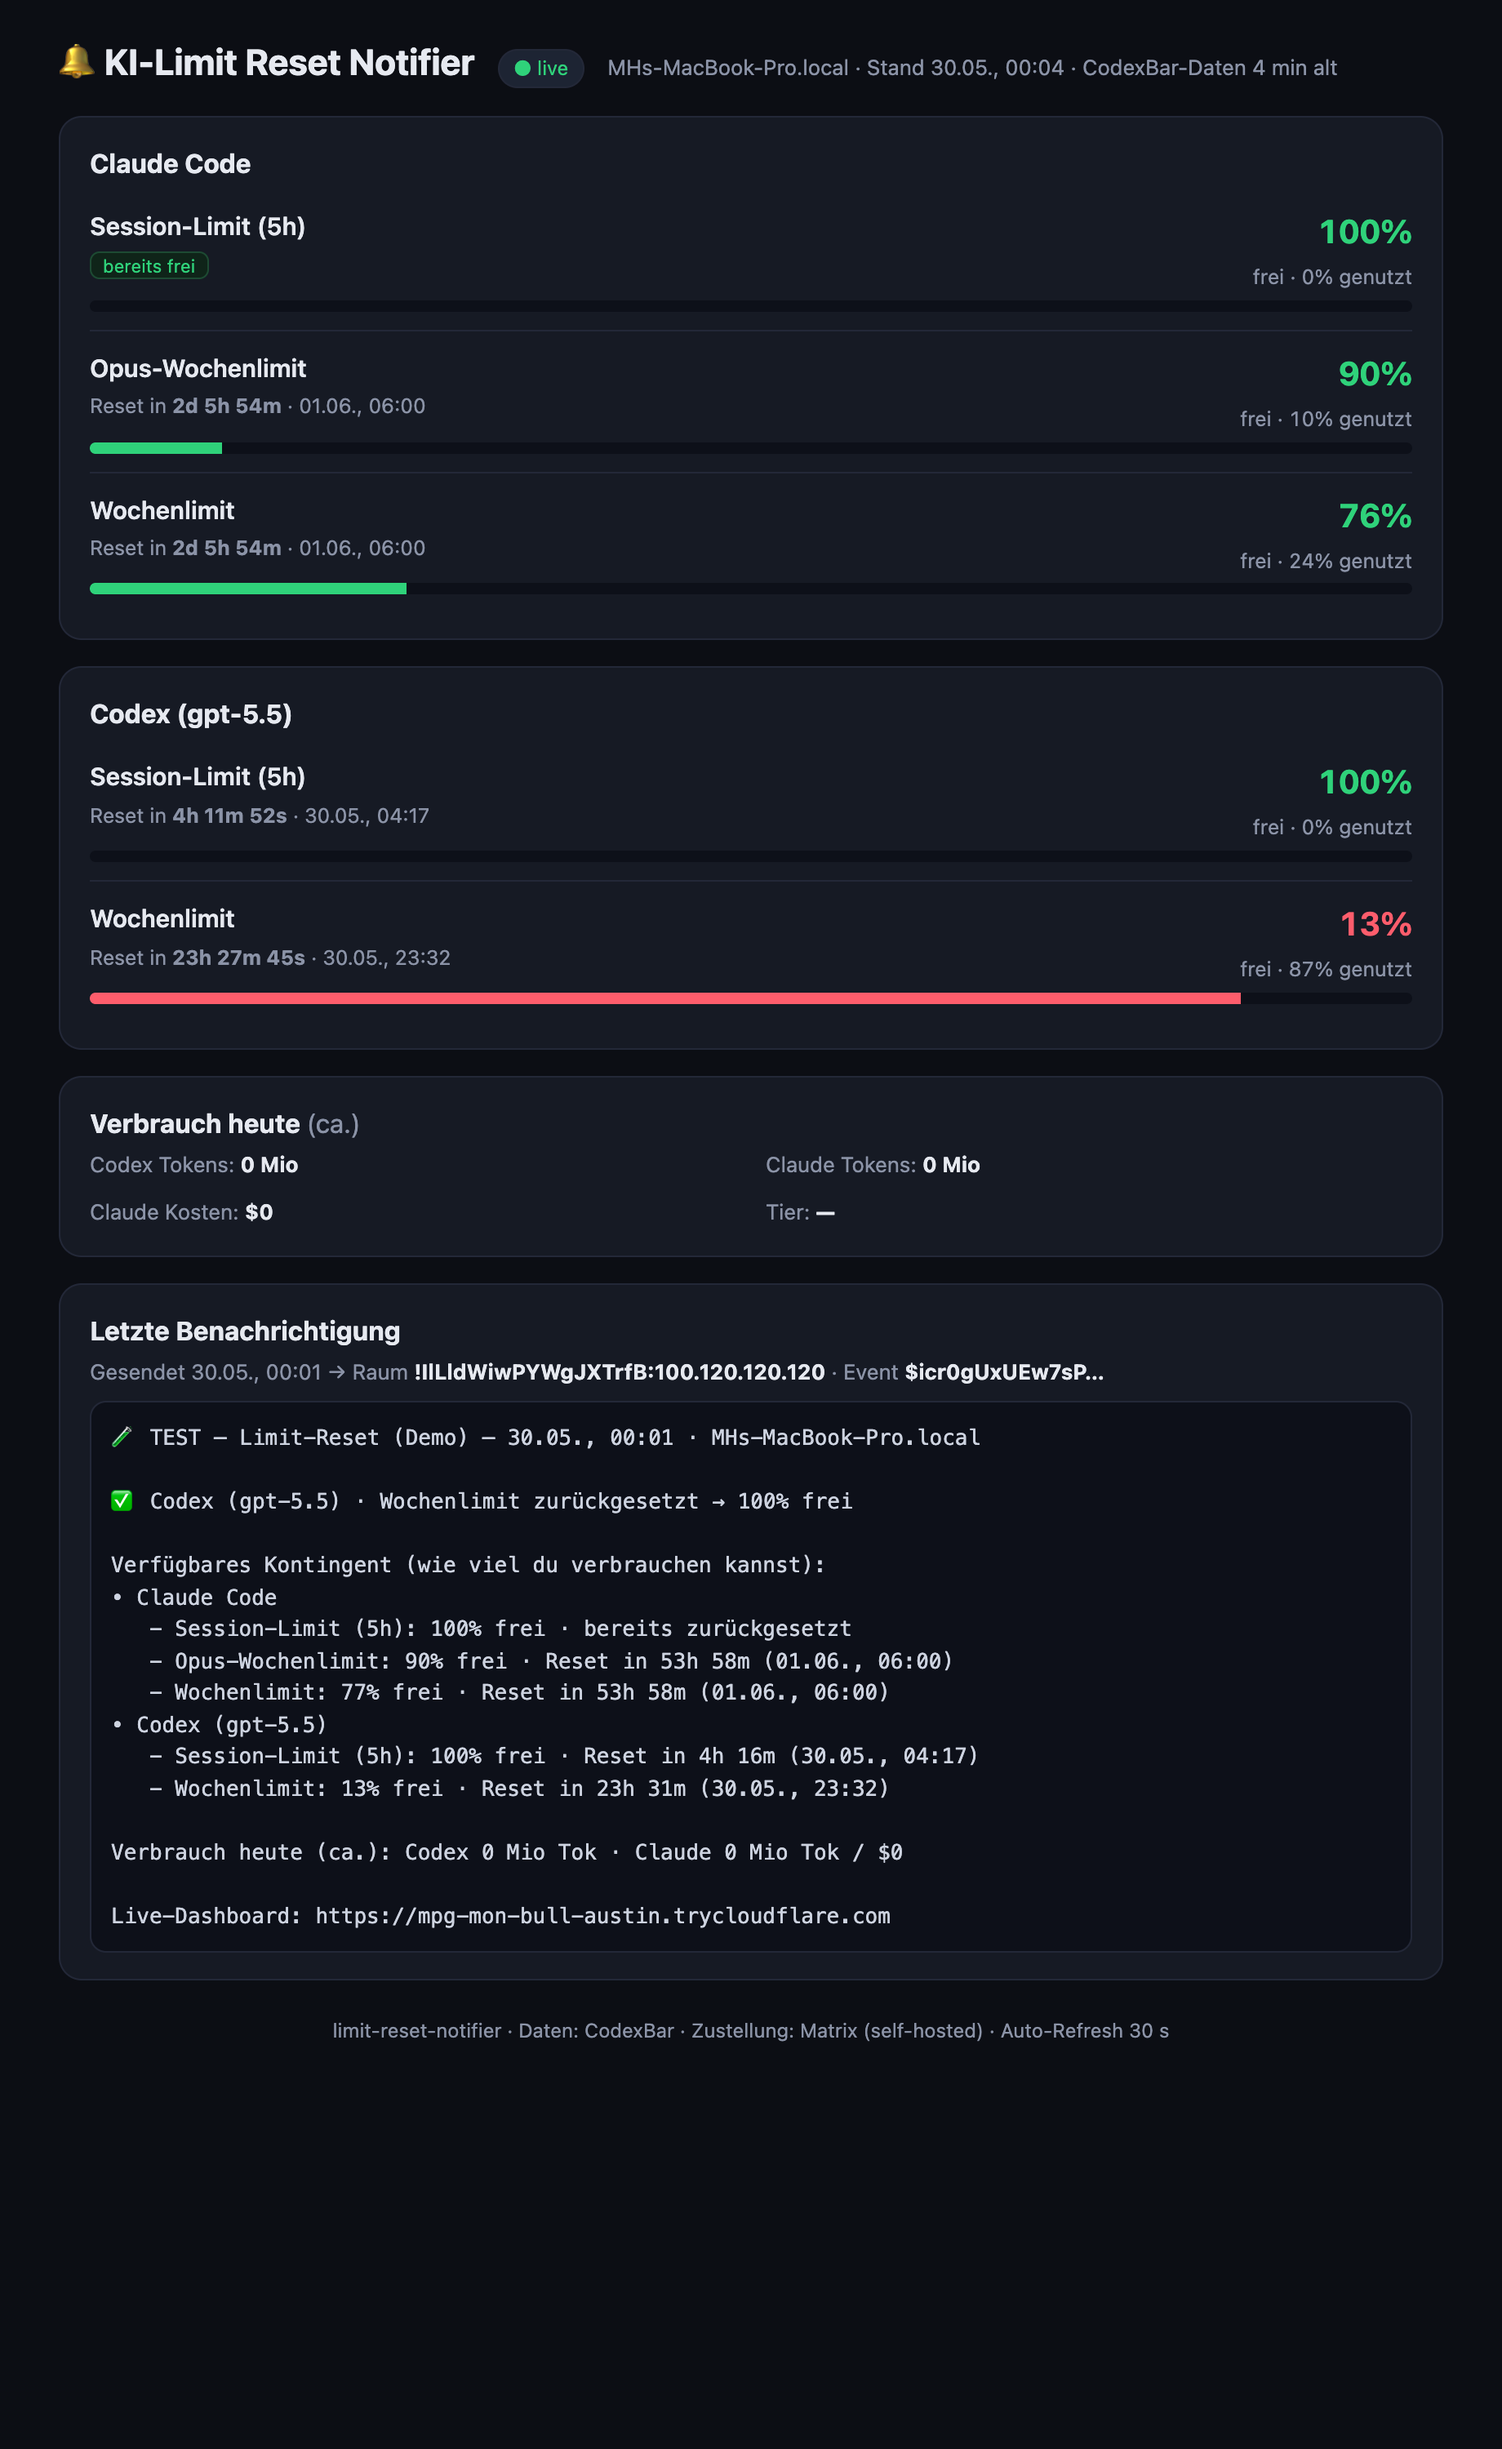
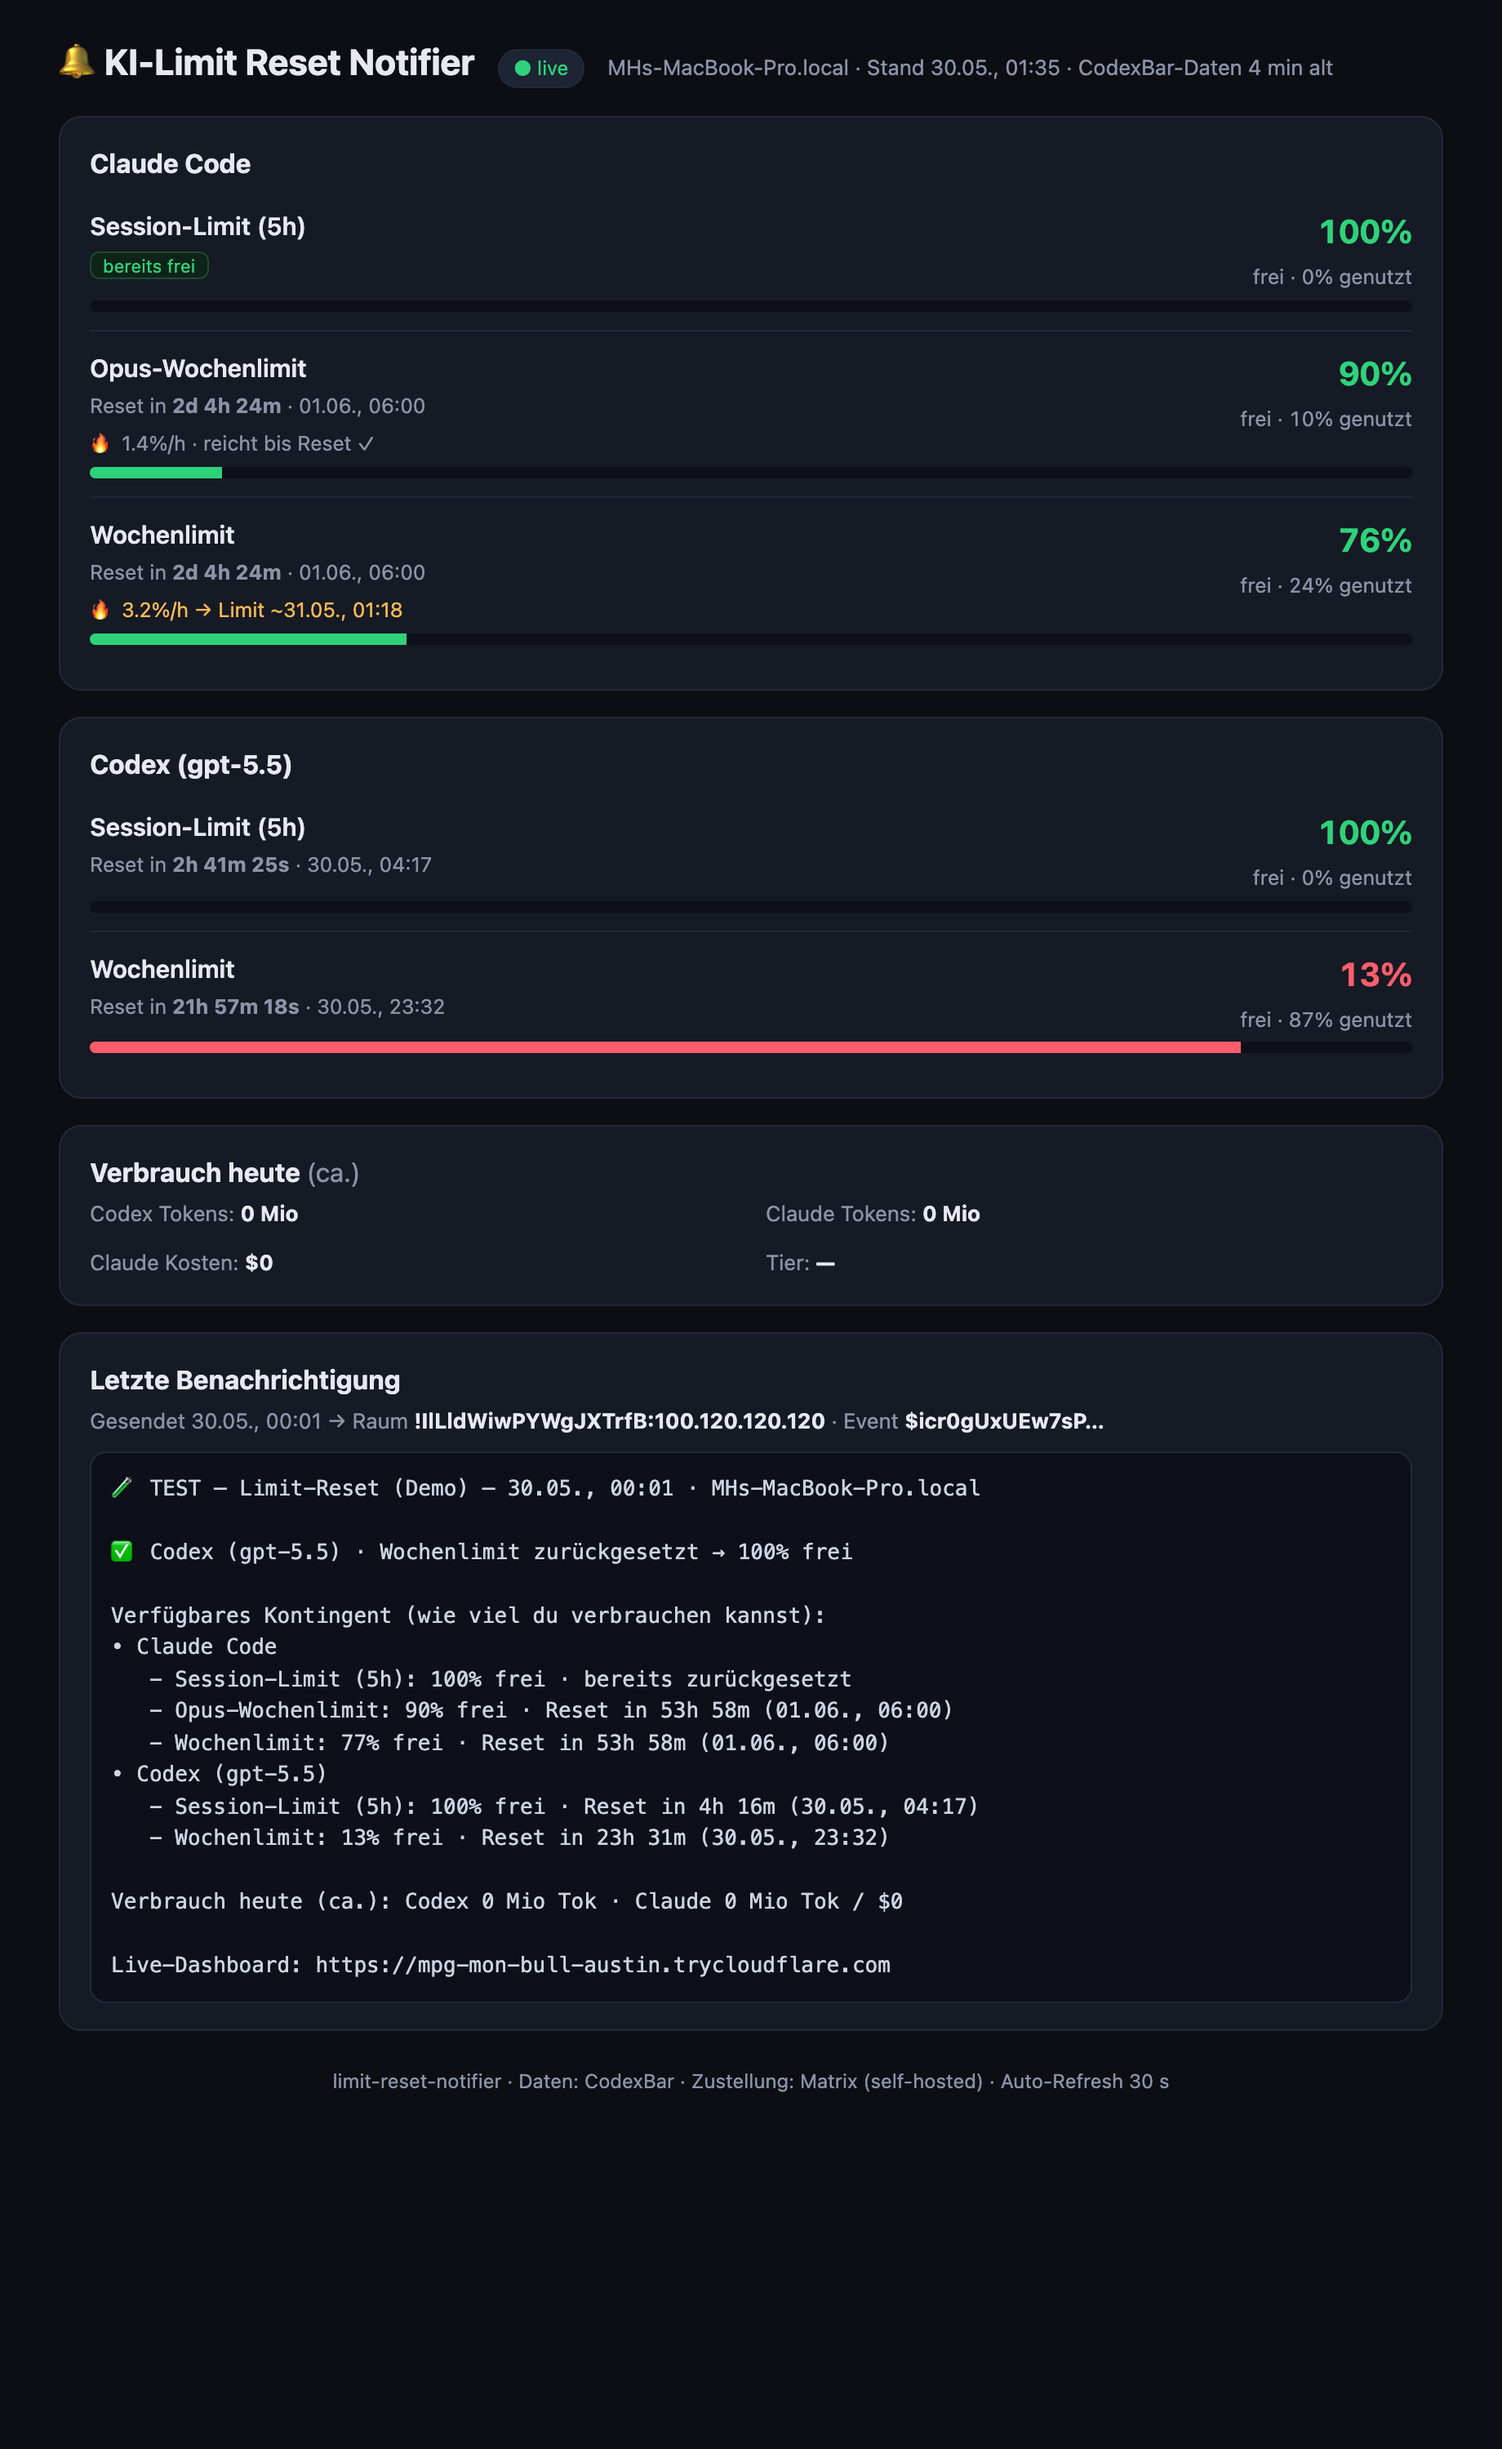
Add burn-rate + time-to-limit projection (recent %/h → exhaustion estimate)
Estimates current consumption pace per window (last 6h, falls back to whole window)
and projects whether/when each limit would be hit before its reset. Dashboard shows
"🔥 X%/h · reicht bis Reset" or a concrete exhaustion time. Pure, unit-tested (burn.test.mjs).

diff --git a/dashboard/index.html b/dashboard/index.html
@@ -98,8 +98,12 @@
                 const reset = w.expired
                   ? `<span class="badge ok">bereits frei</span>`
                   : `<span class="sub">Reset in <b data-reset="${w.resetsAt}">${cd(secs)}</b> · ${local(w.resetsAt)}</span>`;
+                const burnTxt =
+                  !w.expired && w.burnPerHour != null && w.burnPerHour > 0.05
+                    ? `<br><span class="sub" style="color:${w.exhaustsBeforeReset ? "var(--amber)" : "var(--dim)"}">🔥 ${w.burnPerHour}%/h ${w.exhaustsBeforeReset ? "→ Limit ~" + local(w.exhaustionAt) : "· reicht bis Reset ✓"}</span>`
+                    : "";
                 return `<div class="win">
-                    <div><span class="name">${w.label}</span><br>${reset}</div>
+                    <div><span class="name">${w.label}</span><br>${reset}${burnTxt}</div>
                     <div class="free"><b style="color:${color(w.remainingPercent)}">${w.remainingPercent}%</b><br><span class="sub">frei · ${w.usedPercent}% genutzt</span></div>
                     <div class="bar"><span style="width:${w.usedPercent}%;background:${color(w.remainingPercent)}"></span></div>
                   </div>`;

diff --git a/README.md b/README.md
@@ -15,7 +15,9 @@ how much quota you have left across **Claude Code** and **OpenAI Codex**.
 
 1. **Collects** the current rate‑limit windows for each provider (session / weekly / Opus)
    straight from CodexBar's local history — `usedPercent` + `resetsAt` per window — plus an
-   approximate "tokens used today" figure.
+   approximate "tokens used today" figure. It also estimates a **burn rate** (recent %/h) and
+   projects when each window would be exhausted at the current pace ("reicht bis Reset" vs.
+   a concrete time).
 2. **Detects a reset**: a window rolled into a new `resetsAt` *and* usage fell back to ~0.
 3. **Notifies** you in a dedicated Matrix room: *"✅ Codex Wochenlimit zurückgesetzt → 100 % frei"*
    together with the full picture of how much you can still burn on every provider.
@@ -101,7 +103,8 @@ node --test            # unit tests for the reset-detection core (src/lib/detect
 ```
 
 Covers: a genuine reset fires exactly one real event; mid‑window usage increases don't;
-a freshly‑rolled-but-still-busy window doesn't; and the same reset is never notified twice.
+a freshly‑rolled-but-still-busy window doesn't; the same reset is never notified twice; and the
+burn‑rate / exhaustion‑projection math (`src/lib/burn.mjs`).
 
 ## Proof / end‑to‑end evidence
 
